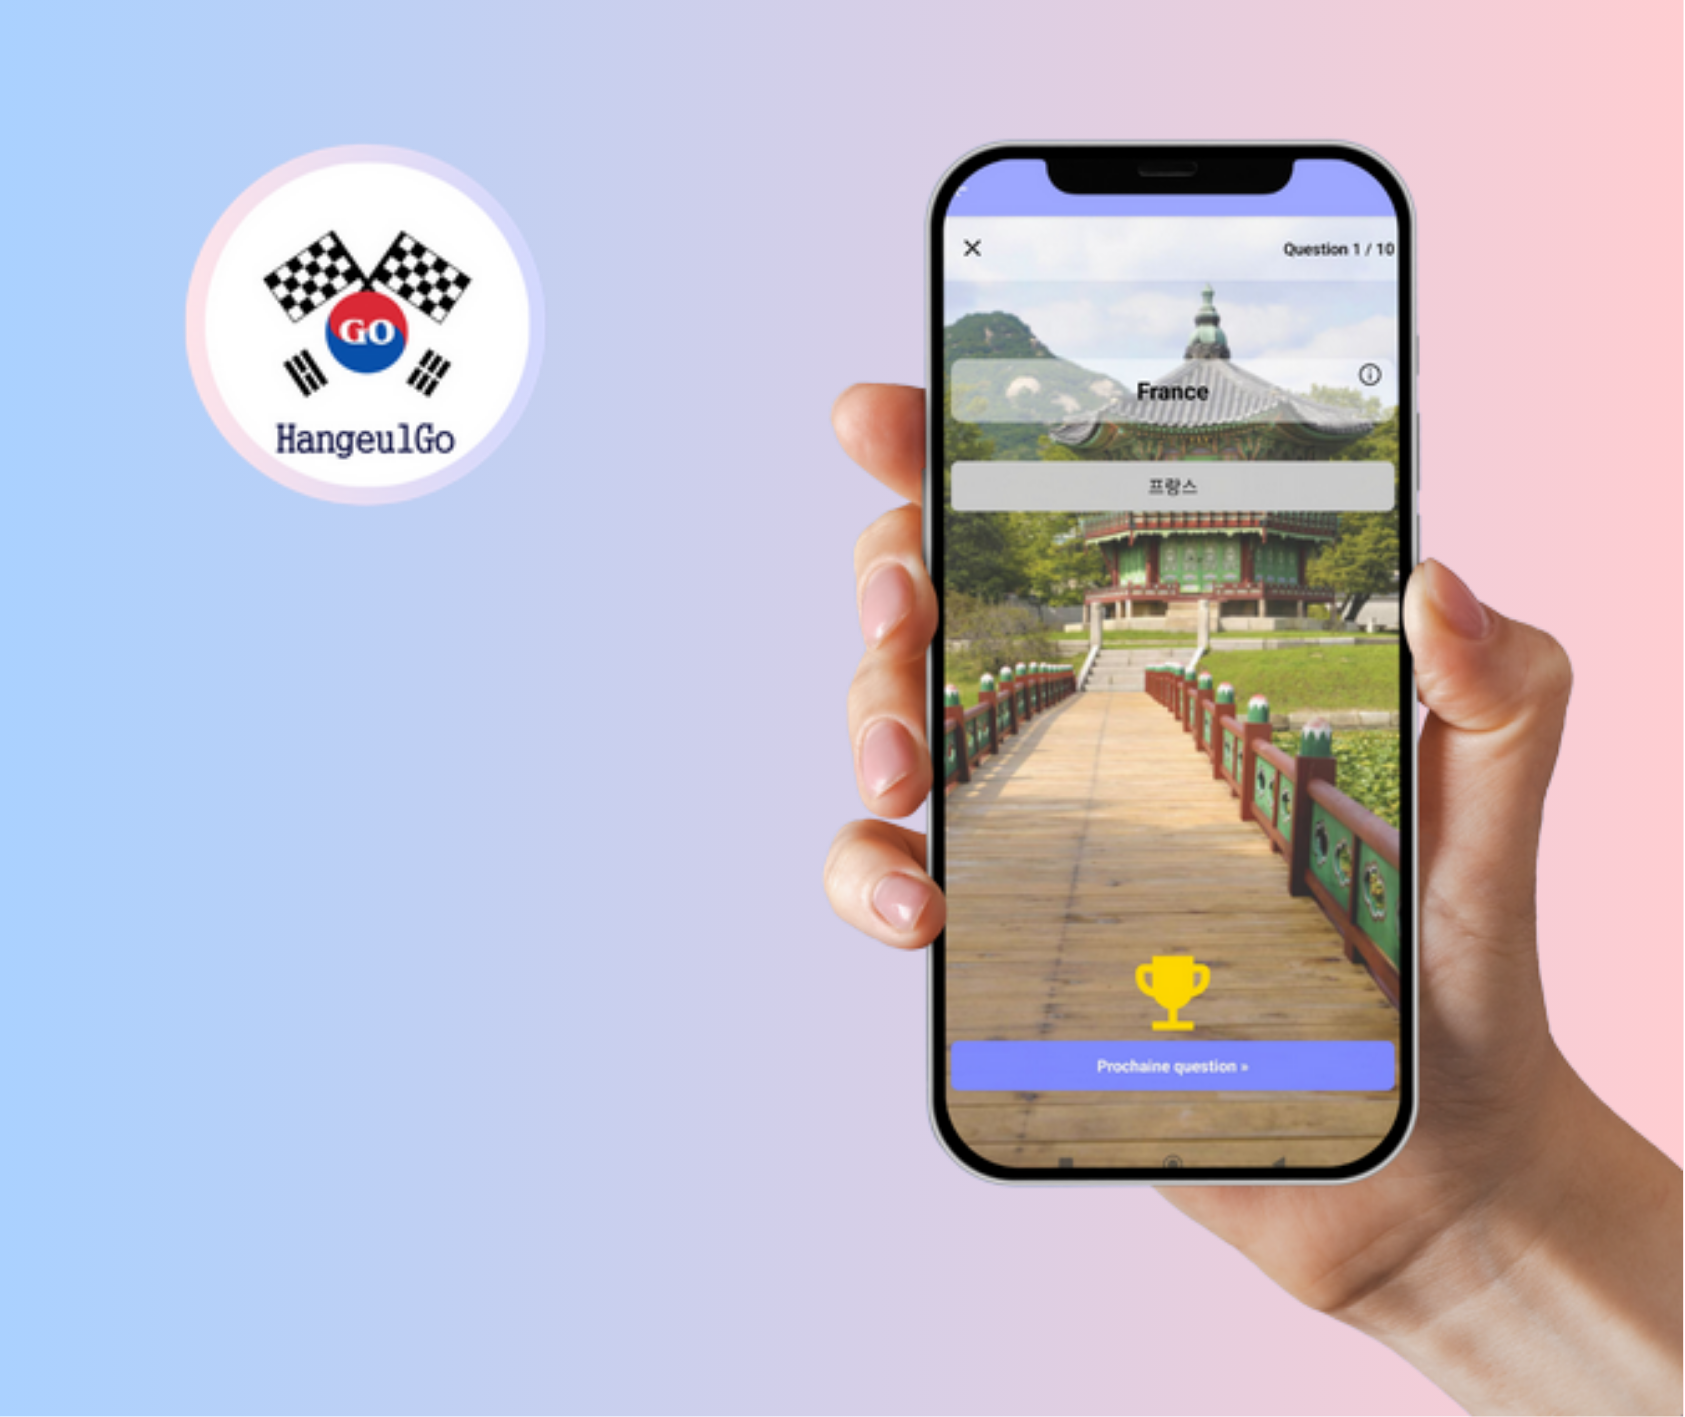
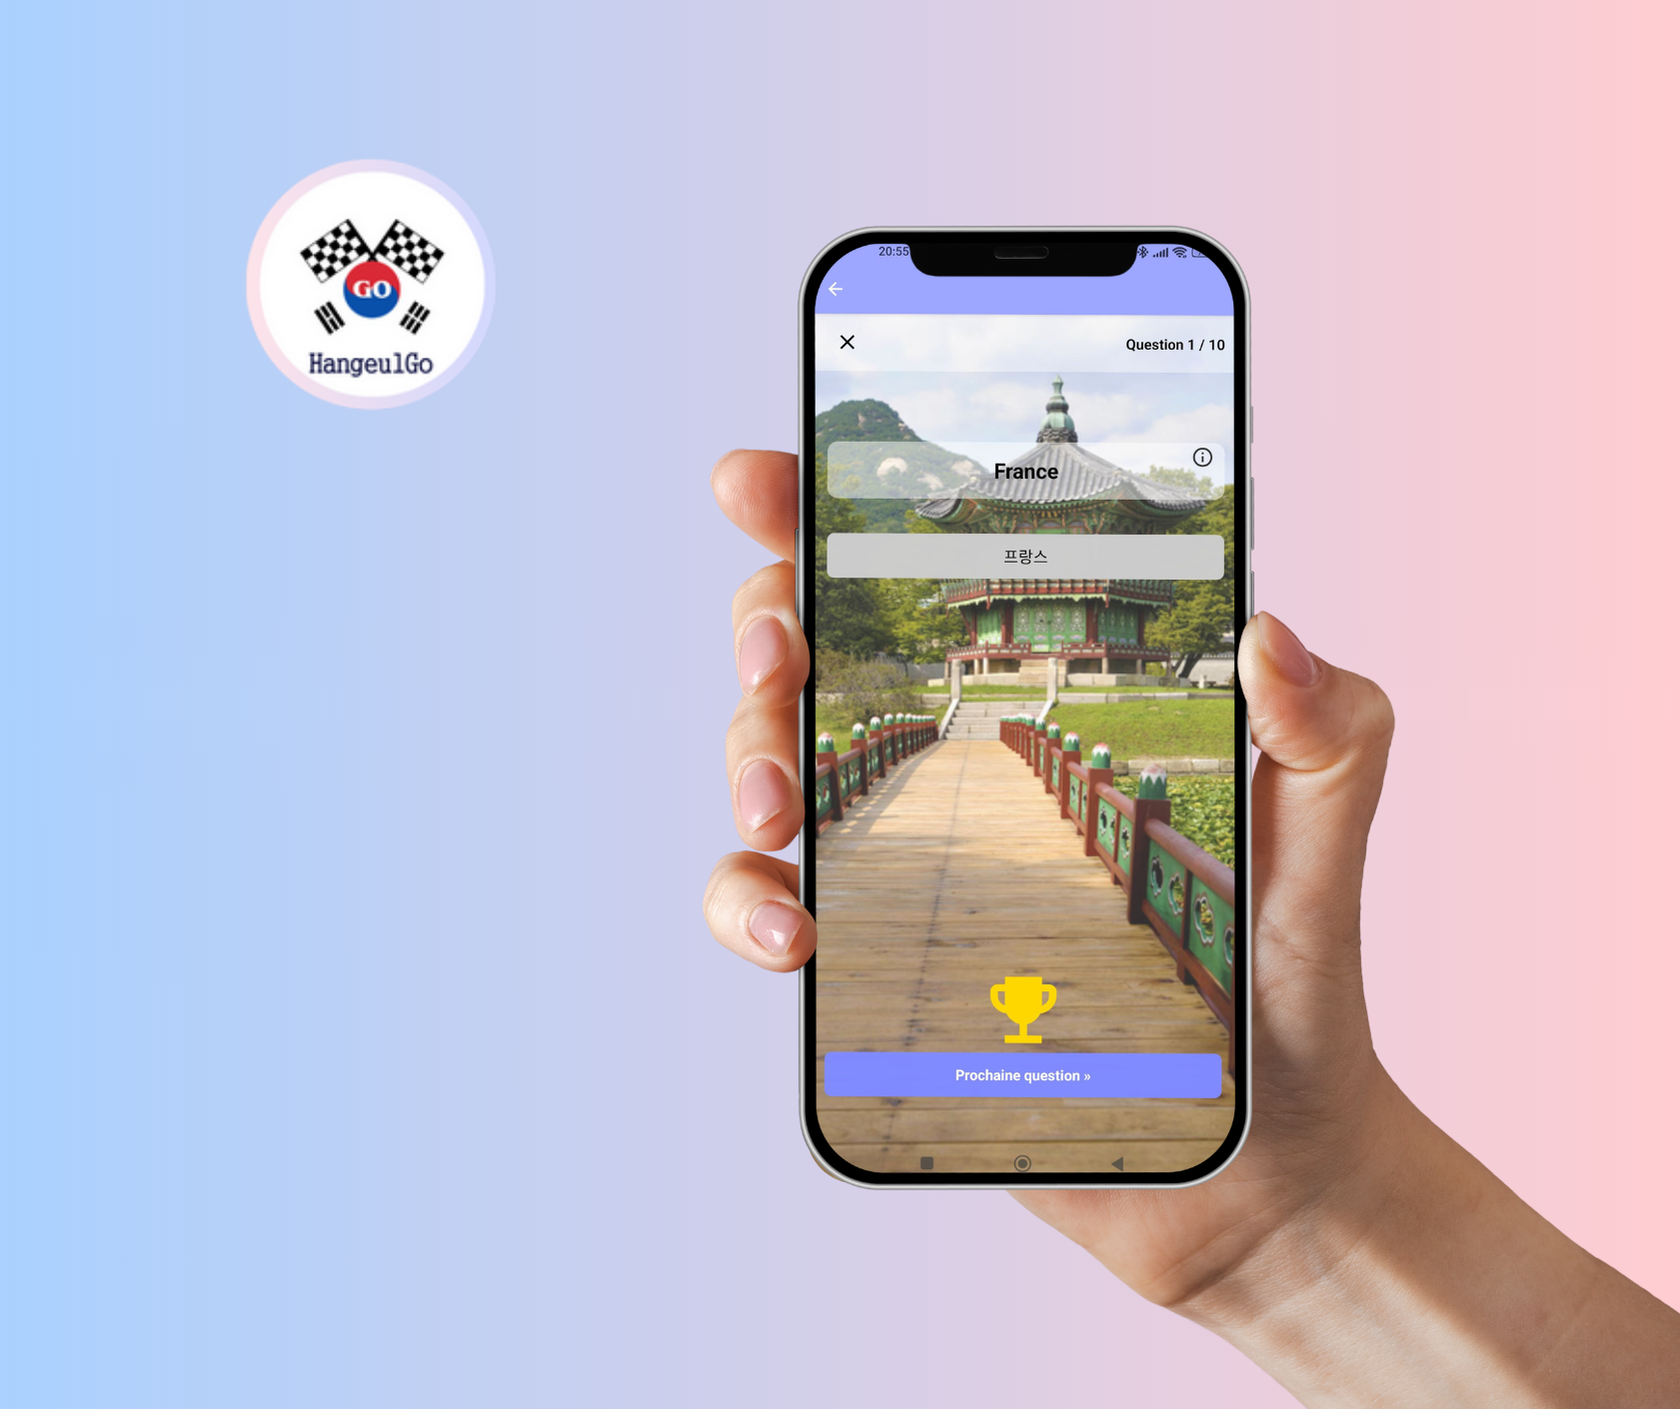
Update images format

diff --git a/src/app/data/Projects.ts b/src/app/data/Projects.ts
@@ -7,7 +7,7 @@ const projects: Project[] = [
         clickable: true,
         description:
             "HangeulGo est une application mobile pour apprendre le coréen à l'aide de jeux et de quiz. Remplissez votre lexique et testez vos connaissances dans des jeux customisables ! L'application est disponible gratuitement sur le Play Store.",
-        image: "/projects/hg_cover.png",
+        image: "/projects/hg_cover.webp",
         status: "Terminé",
         link: "https://play.google.com/store/apps/details?id=com.sdeschaepmeester.hangeulgo",
         techs: [
@@ -23,7 +23,7 @@ const projects: Project[] = [
         clickable: true,
         description:
             "Drone Sud Activités est un site web vitrine pour une entreprise de services de nettoyage par drone. Le site présente les services offerts, des exemples d'interventions et un formulaire de contact pour les devis et autres demandes.",
-        image: "/projects/dsa_cover.png",
+        image: "/projects/dsa_cover.webp",
         status: "Terminé",
         link: "https://www.drone-sud-activités.fr/",
         techs: [
@@ -38,7 +38,7 @@ const projects: Project[] = [
         clickable: false,
         description:
             "Outil de prospection B2B permettant d’identifier des entreprises à partir de données publiques selon des critères géographiques et sectoriels.",
-        image: "/projects/cf_cover.png",
+        image: "/projects/cf_cover.webp",
         status: "Terminé",
         link: "",
         techs: [
@@ -55,7 +55,7 @@ const projects: Project[] = [
         clickable: true,
         description:
             "CycleHarmony est un site web vitrine pour une auto-entrepreneuse experte en symptothermie, une méthode de contraception naturelle. Le site présente ce qu'est la symptothermie, les différents packs de service et un formulaire de contact pour prise de rendez-vous.",
-        image: "/projects/ch_cover.png",
+        image: "/projects/ch_cover.webp",
         status: "Terminé",
         link: "https://cycleharmony.vercel.app/",
         techs: [
@@ -71,7 +71,7 @@ const projects: Project[] = [
         clickable: true,
         description:
             "Site vitrine d'un artisan polyvalent en rénovation intérieure. Le site présente les domaines d'interventions, des exemples de réalisations et un formulaire de prise de contact.",
-        image: "/projects/nhp_cover.png",
+        image: "/projects/nhp_cover.webp",
         status: "Terminé",
         link: "https://dsa-multiservices.vercel.app/",
         techs: [
@@ -87,7 +87,7 @@ const projects: Project[] = [
         clickable: true,
         description:
             "Jeu mobile réalisé en Kotlin, lié à une peluche robotique via Bluetooth BLE. Les actions du joueur sur l'application font bouger la peluche (pattes avant et queue). Le système embarqué de la peluche est fait avec des composants Arduino.",
-        image: "/projects/vi_cover.png",
+        image: "/projects/vi_cover.webp",
         status: "En cours",
         link: "",
         techs: [
@@ -101,7 +101,7 @@ const projects: Project[] = [
         clickable: true,
         description:
             "Une plateforme d'articles sur l'élevage des colombes et tourterelles. Disponible en plusieurs langues.",
-        image: "/projects/dpg_cover.png",
+        image: "/projects/dpg_cover.webp",
         status: "En cours",
         link: "https://dovepigeonguide.com/",
         techs: [
@@ -121,7 +121,7 @@ const projects: Project[] = [
         clickable: false,
         description:
             "FullRemoteSeekers est une plateforme de recherche d'emploi 100% remote. Projet en pause.",
-        image: "/projects/frs_cover.png",
+        image: "/projects/frs_cover.webp",
         status: "En pause",
         link: "http://fullremoteseekers.com/",
         techs: [
@@ -139,7 +139,7 @@ const projects: Project[] = [
         clickable: true,
         description:
             "Premier projet de développement mobile. Il s'agit d'un jeu où vous devez prendre soin d'un renard virtuel en jouant à des mini-jeux et en dévérouillant des endroits et des objets en accomplissant des quêtes. Projet en pause momentannée.",
-        image: "/projects/mdf_cover.png",
+        image: "/projects/mdf_cover.webp",
         status: "En pause",
         link: "https://www.youtube.com/shorts/BBcZHA1A59M",
         techs: [
@@ -155,7 +155,7 @@ const projects: Project[] = [
         clickable: false,
         description:
             "Ce site ! Construit avec Next, TypeScript et Tailwind CSS, dans une architecture Turborepo.",
-        image: "/projects/pf_cover.png",
+        image: "/projects/pf_cover.webp",
         status: "Terminé",
         link: "#",
         techs: [
